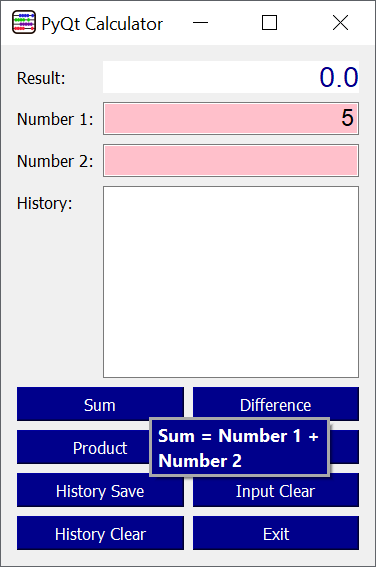
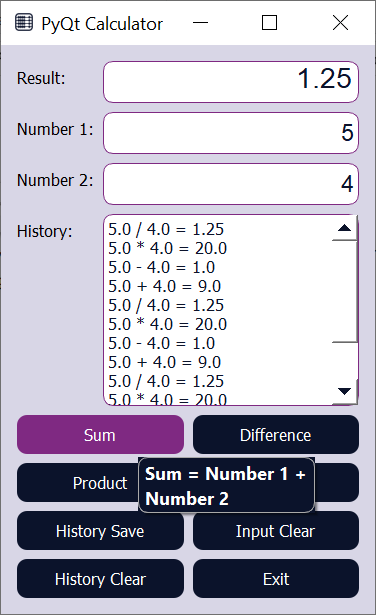
New design

diff --git a/SimpleCalculatorPyQt1.py b/SimpleCalculatorPyQt1.py
@@ -44,6 +44,12 @@ class MainWindow(QWidget):
         # Set window title and icon
         self.setWindowTitle('PyQt Calculator')
         self.setWindowIcon(QIcon(calc_icon))
+        self.setStyleSheet("""QWidget{background-color: #D8D6E6;}
+                            QToolTip { 
+                            border: 1px solid darkgrey;
+                            background-color: #0B132B;
+                            border-radius: 10px; 
+                            color: white; }""") 
 
         self.calculator = Calculator()
 
@@ -171,11 +177,6 @@ class MainWindow(QWidget):
         buttons[7].clicked.connect(app.exit)
         self.layout_button.addWidget(buttons[7],3,1)
 
-        self.setStyleSheet("""QToolTip { 
-                           border: 1px solid darkgrey;
-                           background-color: #0B132B;
-                           border-radius: 10px; 
-                           color: white; }""")
         self.show()
 
     def save_history(self):
@@ -184,12 +185,16 @@ class MainWindow(QWidget):
 
         Checks if the history is empty and displays a message box if so.
         """
+        dirname = os.path.dirname(__file__)
+        warning = os.path.join(dirname, 'warning.png')
+        info = os.path.join(dirname, 'info.png')
 
         # Check if history is empty
         if not self.history.toPlainText():
             messagebox = QMessageBox(QMessageBox.Warning, "Save History",
                                     "History is empty! Cannot save an empty file.",
                                     buttons=QMessageBox.Ok, parent=self)
+            messagebox.setIconPixmap(QPixmap(warning))
             messagebox.findChild(QPushButton).setStyleSheet("""QPushButton {background-color: #0B132B; 
                                                                                     color: white; 
                                                                                     border-radius: 10px; 
@@ -215,6 +220,7 @@ class MainWindow(QWidget):
 
             # Show a success message box
             messagebox = QMessageBox(QMessageBox.Information, "Save History", "History successfully saved to file: " + filepath, buttons=QMessageBox.Ok, parent=self)
+            messagebox.setIconPixmap(QPixmap(info))
             messagebox.findChild(QPushButton).setStyleSheet("""QPushButton {background-color: #0B132B; 
                                                                                 color: white; 
                                                                                 border-radius: 10px; 
@@ -311,11 +317,11 @@ class MainWindow(QWidget):
             messagebox.exec_()
             
         except ZeroDivisionError:
-            self.textbox2.setStyleSheet("""background-color : #F7717D; 
+            self.textbox2.setStyleSheet("""background-color : white; 
                                         color: #0B132B; 
                                         border-radius: 10px; 
-                                        border: 1px solid #7F2982;
-                                        min-height: 40px;  
+                                        border: 4px solid #F7717D;
+                                        min-height: 40px;
                                  """)
             messagebox = QMessageBox(QMessageBox.Warning, "Error", "Division by zero is not allowed!", buttons=QMessageBox.Ok, parent=self)
             messagebox.setIconPixmap(QPixmap(stop_writing))
